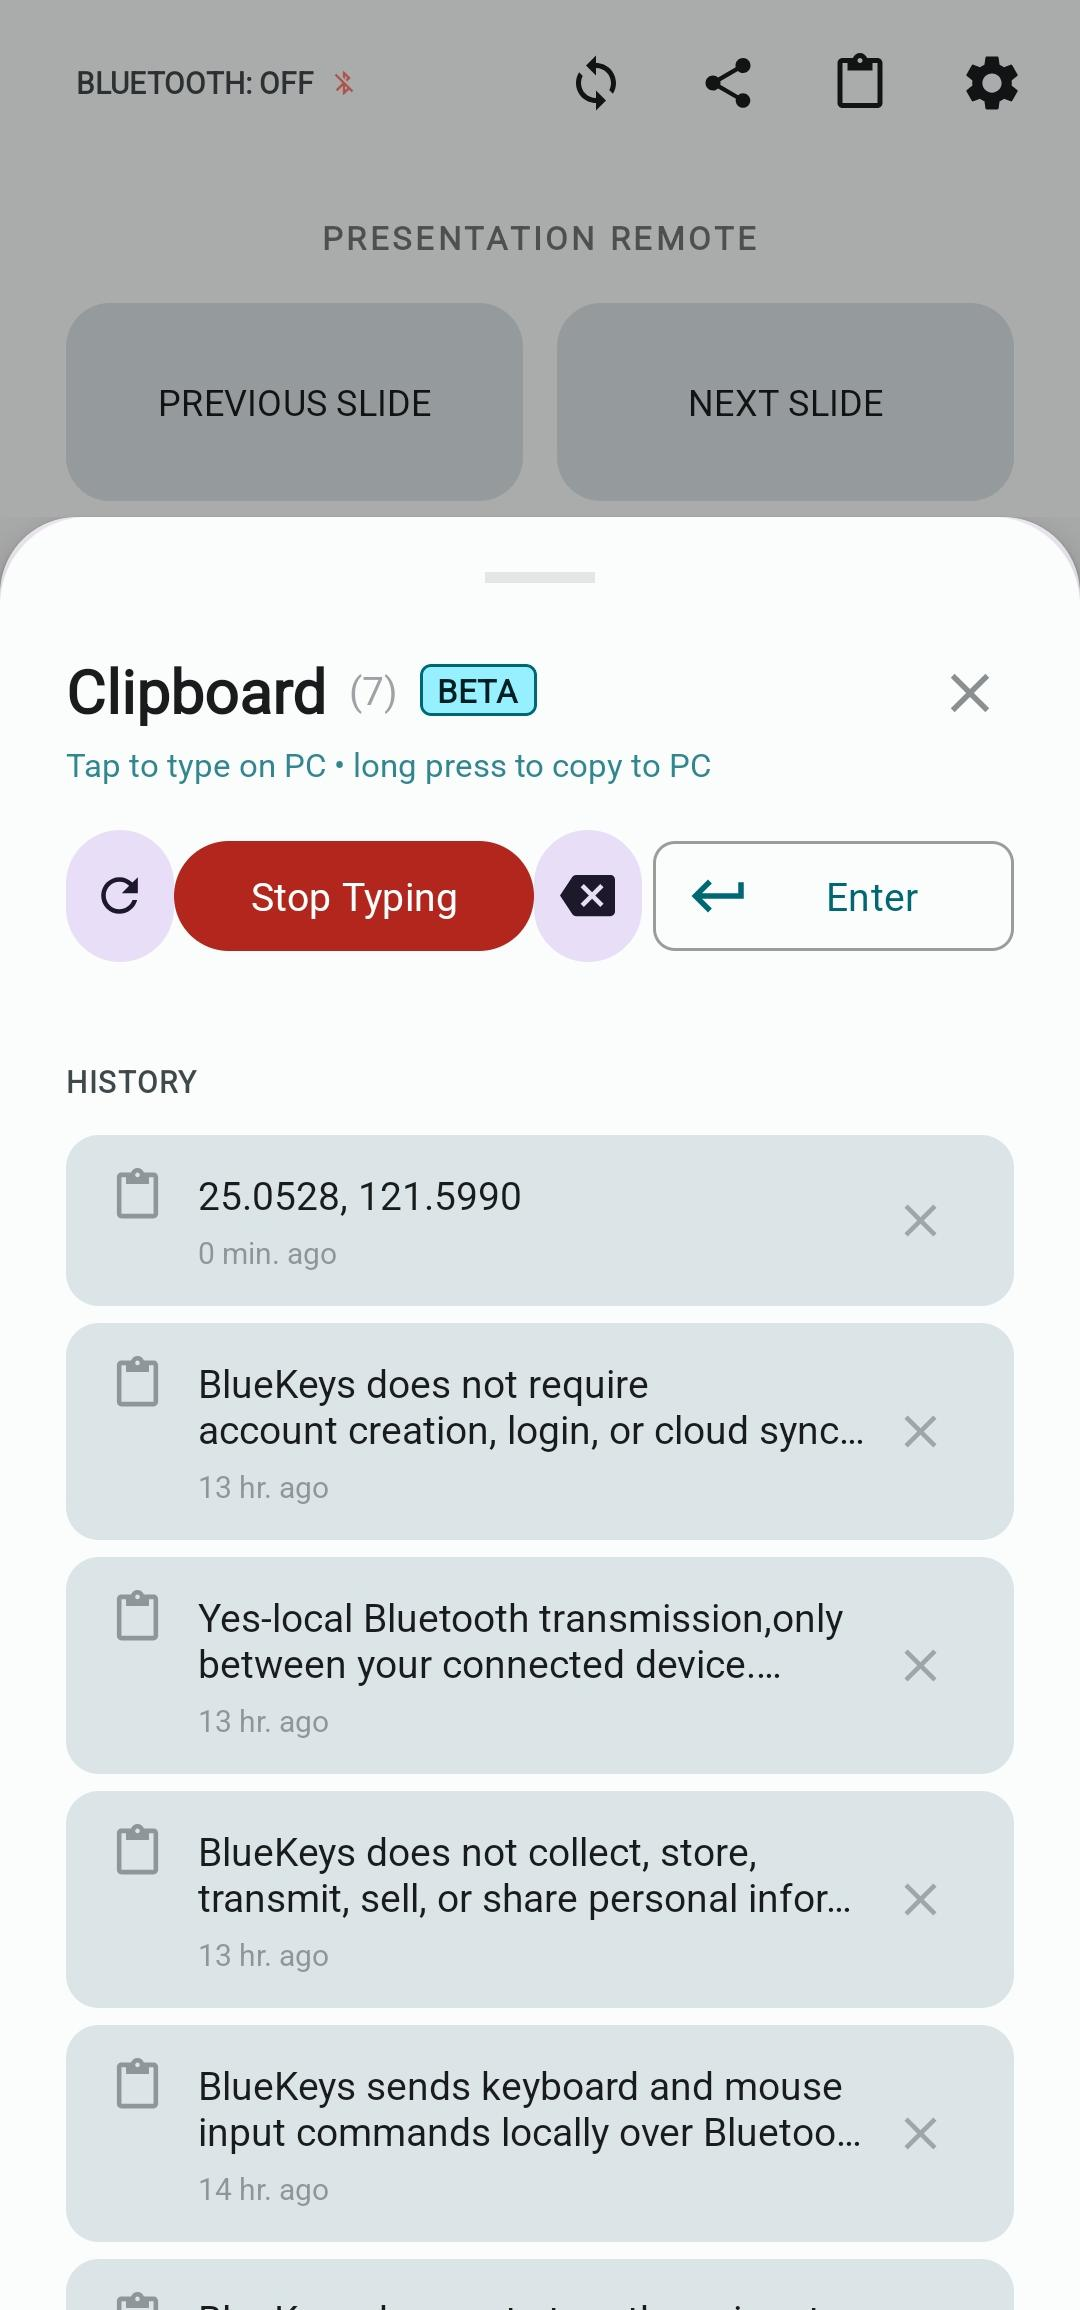
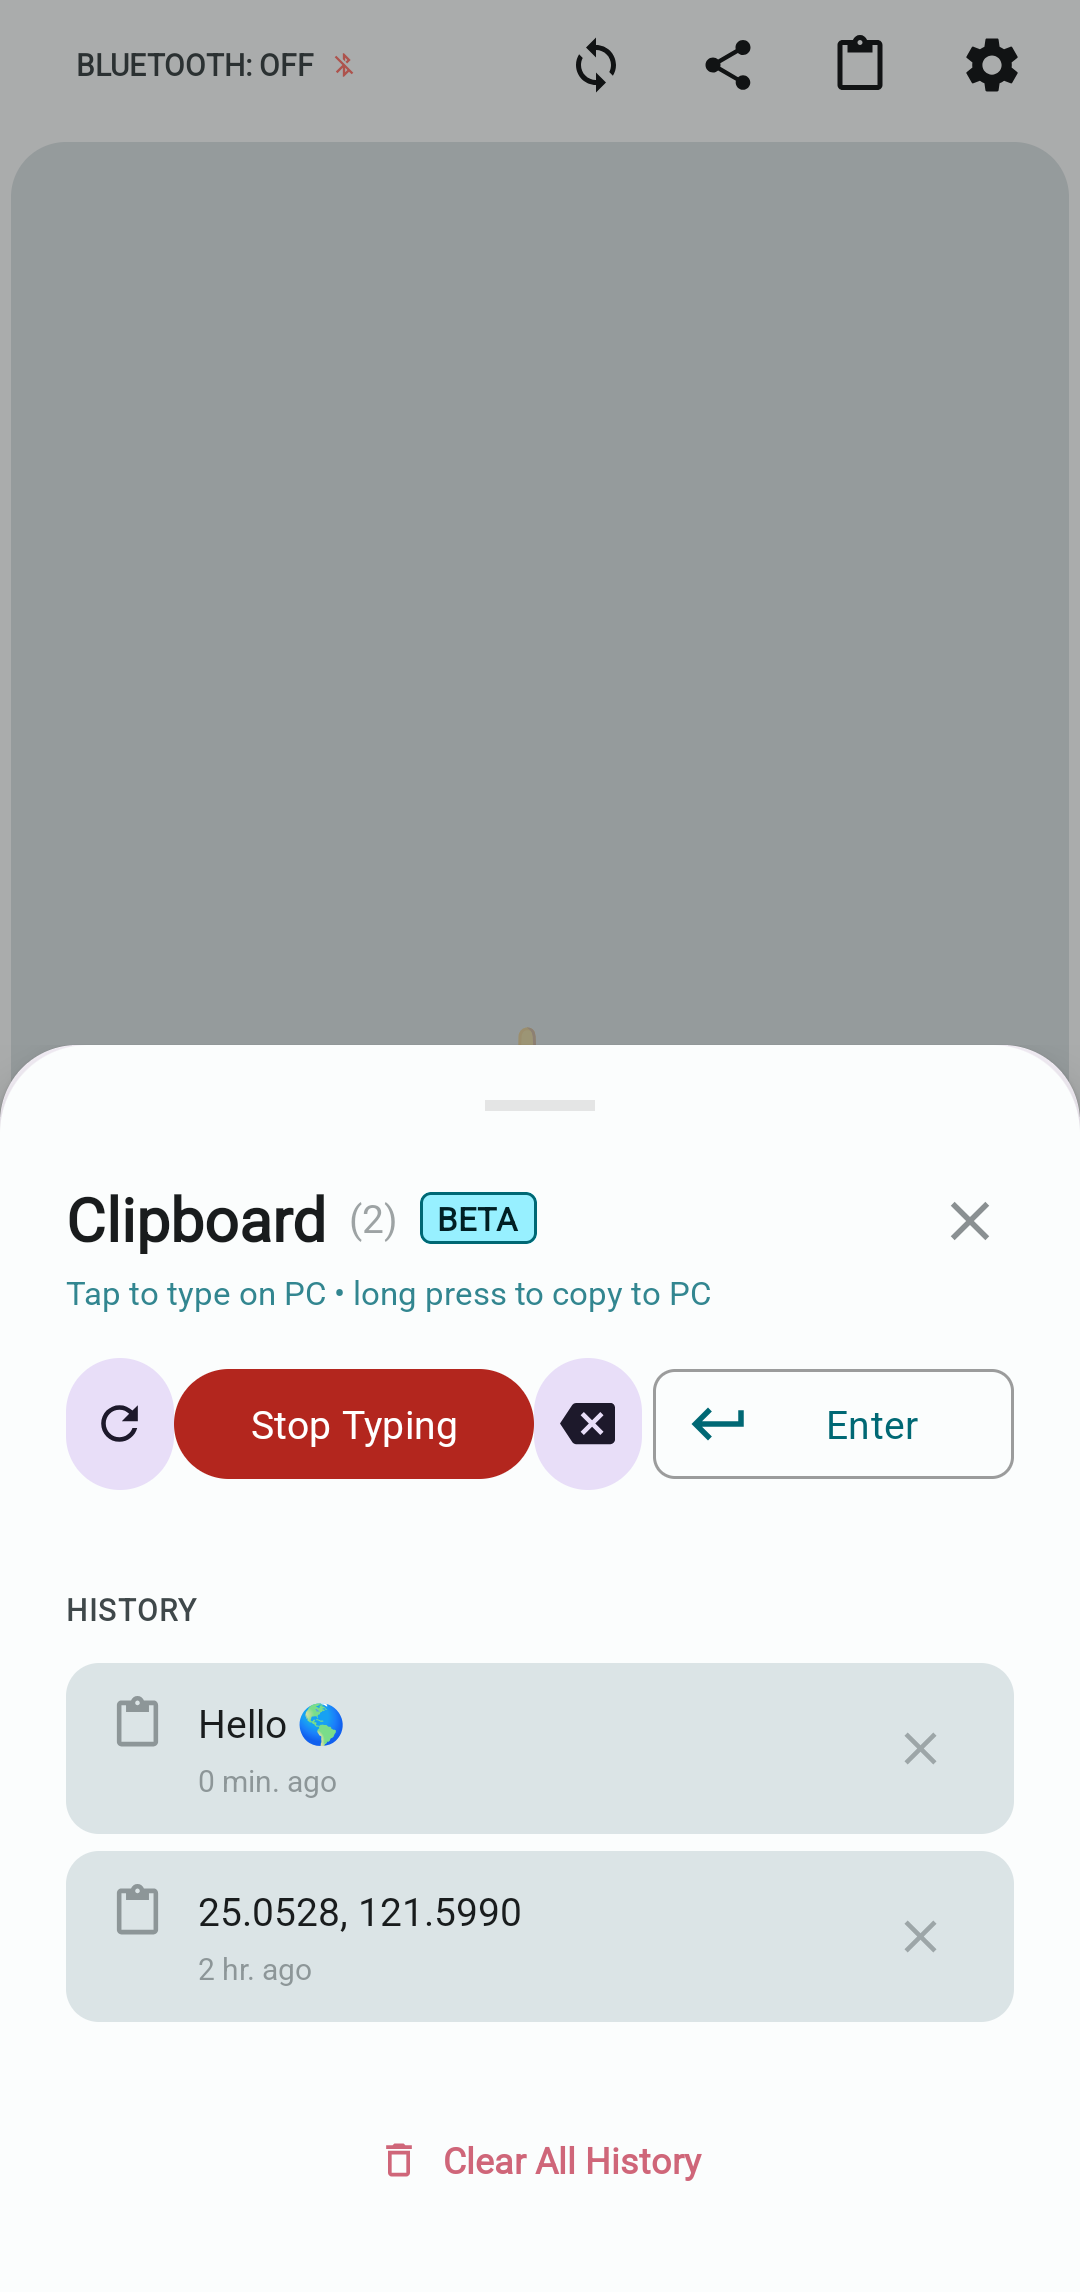
feat: update image gallery with new assets and refactor CSS animation delays for improved masonry layout responsiveness

diff --git a/index.html b/index.html
@@ -118,33 +118,33 @@
       animation: headerReveal 1.2s cubic-bezier(0.16, 1, 0.3, 1) forwards;
     }
 
-    .gallery-item:nth-child(1) .reveal-curtain,
-    .gallery-item:nth-child(1) .image-zoom {
+    .gallery-item:nth-child(6n+1) .reveal-curtain,
+    .gallery-item:nth-child(6n+1) .image-zoom {
       animation-delay: 0.15s;
     }
 
-    .gallery-item:nth-child(2) .reveal-curtain,
-    .gallery-item:nth-child(2) .image-zoom {
+    .gallery-item:nth-child(6n+2) .reveal-curtain,
+    .gallery-item:nth-child(6n+2) .image-zoom {
       animation-delay: 0.25s;
     }
 
-    .gallery-item:nth-child(3) .reveal-curtain,
-    .gallery-item:nth-child(3) .image-zoom {
+    .gallery-item:nth-child(6n+3) .reveal-curtain,
+    .gallery-item:nth-child(6n+3) .image-zoom {
       animation-delay: 0.35s;
     }
 
-    .gallery-item:nth-child(4) .reveal-curtain,
-    .gallery-item:nth-child(4) .image-zoom {
+    .gallery-item:nth-child(6n+4) .reveal-curtain,
+    .gallery-item:nth-child(6n+4) .image-zoom {
       animation-delay: 0.45s;
     }
 
-    .gallery-item:nth-child(5) .reveal-curtain,
-    .gallery-item:nth-child(5) .image-zoom {
+    .gallery-item:nth-child(6n+5) .reveal-curtain,
+    .gallery-item:nth-child(6n+5) .image-zoom {
       animation-delay: 0.55s;
     }
 
-    .gallery-item:nth-child(6) .reveal-curtain,
-    .gallery-item:nth-child(6) .image-zoom {
+    .gallery-item:nth-child(6n+6) .reveal-curtain,
+    .gallery-item:nth-child(6n+6) .image-zoom {
       animation-delay: 0.65s;
     }
 
@@ -828,22 +828,6 @@
             </div>
           </div>
 
-          <!-- Item 3: Precision Mouse (Landscape) -->
-          <div
-            class="relative overflow-hidden rounded-lg border border-black/5 bg-white/40 shadow-md break-inside-avoid mb-8 gallery-item transition-all duration-500 hover:shadow-xl hover:border-secondary/20"
-            data-purpose="gallery-tile" data-reveal="fade-up">
-            <div class="relative overflow-hidden">
-              <img alt="BlueKeys Bluetooth Mouse and Air Mouse interface" class="w-full h-auto image-zoom"
-                src="light/landscape/mouse.webp" width="2400" height="1080" decoding="async" loading="lazy" />
-              <!-- Staggered horizontal curtain wipe reveal -->
-              <div class="reveal-curtain"></div>
-              <!-- Minimalist Transparent Caption Overlaid (Bottom-Centered, Small Cute Grey Text) -->
-              <div class="absolute bottom-2 left-0 right-0 z-10 text-center">
-                <span class="caption-text">Precision Mouse</span>
-              </div>
-            </div>
-          </div>
-
           <!-- Item 4: Clipboard Sharing (Portrait) -->
           <div
             class="relative overflow-hidden rounded-lg border border-black/5 bg-white/40 shadow-md break-inside-avoid mb-8 gallery-item transition-all duration-500 hover:shadow-xl hover:border-secondary/20"
@@ -871,27 +855,217 @@
               <!-- Staggered horizontal curtain wipe reveal -->
               <div class="reveal-curtain"></div>
               <!-- Minimalist Transparent Caption Overlaid (Bottom-Centered, Small Cute Grey Text) -->
-              <div class="absolute bottom-2 left-0 right-0 z-10 text-center">
+              <div class="absolute bottom-3 left-0 right-0 z-10 text-center">
                 <span class="caption-text">Media Controls</span>
               </div>
             </div>
           </div>
-
-          <!-- Item 6: Multi-Device Share (Portrait) -->
+          <!-- Item: Bluetooth Share (Portrait) -->
           <div
             class="relative overflow-hidden rounded-lg border border-black/5 bg-white/40 shadow-md break-inside-avoid mb-8 gallery-item transition-all duration-500 hover:shadow-xl hover:border-secondary/20"
             data-purpose="gallery-tile" data-reveal="fade-up">
             <div class="relative overflow-hidden">
-              <img alt="BlueKeys local Bluetooth connection setup and share screen" class="w-full h-auto image-zoom"
-                src="light/share.jpg" width="600" height="1281" decoding="async" loading="lazy" />
-              <!-- Staggered horizontal curtain wipe reveal -->
+              <img alt="BlueKeys Bluetooth file and connection sharing" class="w-full h-auto image-zoom"
+                src="light/new/portrait%20ratio%20images/bluetooh%20share.jpg" width="1080" height="2400" decoding="async" loading="lazy" />
               <div class="reveal-curtain"></div>
-              <!-- Minimalist Transparent Caption Overlaid (Bottom-Centered, Small Cute Grey Text) -->
               <div class="absolute bottom-2 left-0 right-0 z-10 text-center">
-                <span class="caption-text">Multi-Device Share</span>
+                <span class="caption-text">Bluetooth Share</span>
               </div>
             </div>
           </div>
+
+          <!-- Item 11: Precision Mouse Settings (Landscape) -->
+          <div
+            class="relative overflow-hidden rounded-lg border border-black/5 bg-white/40 shadow-md break-inside-avoid mb-8 gallery-item transition-all duration-500 hover:shadow-xl hover:border-secondary/20"
+            data-purpose="gallery-tile" data-reveal="fade-up">
+            <div class="relative overflow-hidden">
+              <img alt="BlueKeys Bluetooth mouse control options" class="w-full h-auto image-zoom"
+                src="light/new/landscape%20ratio%20images/mouse.png" width="2400" height="1080" decoding="async" loading="lazy" />
+              <div class="reveal-curtain"></div>
+              <div class="absolute top-2 left-0 right-0 z-10 text-center">
+                <span class="caption-text">Precision Mouse</span>
+              </div>
+            </div>
+          </div>
+
+          <!-- Item 12: Clipboard Sharing (Portrait) -->
+          <div
+            class="relative overflow-hidden rounded-lg border border-black/5 bg-white/40 shadow-md break-inside-avoid mb-8 gallery-item transition-all duration-500 hover:shadow-xl hover:border-secondary/20"
+            data-purpose="gallery-tile" data-reveal="fade-up">
+            <div class="relative overflow-hidden">
+              <img alt="BlueKeys shared clipboard management screen" class="w-full h-auto image-zoom"
+                src="light/new/portrait%20ratio%20images/clipboard.jpg" width="1080" height="2292" decoding="async" loading="lazy" />
+              <div class="reveal-curtain"></div>
+              <div class="absolute bottom-2 left-0 right-0 z-10 text-center">
+                <span class="caption-text">Clipboard Sync</span>
+              </div>
+            </div>
+          </div>
+
+
+          <!-- Item 14: Rotary Dial Controls (Portrait) -->
+          <div
+            class="relative overflow-hidden rounded-lg border border-black/5 bg-white/40 shadow-md break-inside-avoid mb-8 gallery-item transition-all duration-500 hover:shadow-xl hover:border-secondary/20"
+            data-purpose="gallery-tile" data-reveal="fade-up">
+            <div class="relative overflow-hidden">
+              <img alt="BlueKeys interactive circular dial control" class="w-full h-auto image-zoom"
+                src="light/new/portrait%20ratio%20images/dial.png" width="1080" height="2310" decoding="async" loading="lazy" />
+              <div class="reveal-curtain"></div>
+              <div class="absolute top-67 left-0 right-0 z-10 text-center">
+                <span class="caption-text">Rotary Dial</span>
+              </div>
+            </div>
+          </div>
+
+          <!-- Item 15: Smart Word Suggestions (Landscape) -->
+          <div
+            class="relative overflow-hidden rounded-lg border border-black/5 bg-white/40 shadow-md break-inside-avoid mb-8 gallery-item transition-all duration-500 hover:shadow-xl hover:border-secondary/20"
+            data-purpose="gallery-tile" data-reveal="fade-up">
+            <div class="relative overflow-hidden">
+              <img alt="BlueKeys AI predictive word completion bar" class="w-full h-auto image-zoom"
+                src="light/new/landscape%20ratio%20images/suggestions.jpg" width="2400" height="1080" decoding="async" loading="lazy" />
+              <div class="reveal-curtain"></div>
+              <div class="absolute top-1 left-0 right-0 z-10 text-center">
+                <span class="caption-text">workspace keyboard</span>
+              </div>
+            </div>
+          </div>
+
+          <!-- Item 18: Keyboard Layouts (Portrait) -->
+          <div
+            class="relative overflow-hidden rounded-lg border border-black/5 bg-white/40 shadow-md break-inside-avoid mb-8 gallery-item transition-all duration-500 hover:shadow-xl hover:border-secondary/20"
+            data-purpose="gallery-tile" data-reveal="fade-up">
+            <div class="relative overflow-hidden">
+              <img alt="BlueKeys portrait keyboard customization" class="w-full h-auto image-zoom"
+                src="light/new/portrait%20ratio%20images/keyboard.jpg" width="1080" height="2310" decoding="async" loading="lazy" />
+              <div class="reveal-curtain"></div>
+            </div>
+          </div>
+
+          <!-- Item 19: Trackpad Gestures Workspace (Landscape) -->
+          <div
+            class="relative overflow-hidden rounded-lg border border-black/5 bg-white/40 shadow-md break-inside-avoid mb-8 gallery-item transition-all duration-500 hover:shadow-xl hover:border-secondary/20"
+            data-purpose="gallery-tile" data-reveal="fade-up">
+            <div class="relative overflow-hidden">
+              <img alt="BlueKeys multi-touch trackpad configuration" class="w-full h-auto image-zoom"
+                src="light/new/landscape%20ratio%20images/trackpad.jpg" width="2400" height="1080" decoding="async" loading="lazy" />
+              <div class="reveal-curtain"></div>
+              <div class="absolute top-2 left-0 right-0 z-10 text-center">
+                <span class="caption-text">trackpad gestures and scroll</span>
+              </div>
+            </div>
+          </div>
+
+          <!-- Item 22: Media Remote Keys (Portrait) -->
+          <div
+            class="relative overflow-hidden rounded-lg border border-black/5 bg-white/40 shadow-md break-inside-avoid mb-8 gallery-item transition-all duration-500 hover:shadow-xl hover:border-secondary/20"
+            data-purpose="gallery-tile" data-reveal="fade-up">
+            <div class="relative overflow-hidden">
+              <img alt="BlueKeys pocket media buttons controller" class="w-full h-auto image-zoom"
+                src="light/new/portrait%20ratio%20images/media.jpg" width="1080" height="2310" decoding="async" loading="lazy" />
+              <div class="reveal-curtain"></div>
+              <div class="absolute top-10 left-0 right-0 z-10 text-center">
+                <span class="caption-text">Media Playback</span>
+              </div>
+            </div>
+          </div>
+
+          <!-- Item 23: Text Predictions & Vocabulary (Landscape) -->
+          <div
+            class="relative overflow-hidden rounded-lg border border-black/5 bg-white/40 shadow-md break-inside-avoid mb-8 gallery-item transition-all duration-500 hover:shadow-xl hover:border-secondary/20"
+            data-purpose="gallery-tile" data-reveal="fade-up">
+            <div class="relative overflow-hidden">
+              <img alt="BlueKeys intelligent vocabulary matching list" class="w-full h-auto image-zoom"
+                src="light/new/landscape%20ratio%20images/word.png" width="2400" height="1080" decoding="async" loading="lazy" />
+              <div class="reveal-curtain"></div>
+ 
+            </div>
+          </div>
+
+          <!-- Item 24: Global App Preferences (Portrait) -->
+          <div
+            class="relative overflow-hidden rounded-lg border border-black/5 bg-white/40 shadow-md break-inside-avoid mb-8 gallery-item transition-all duration-500 hover:shadow-xl hover:border-secondary/20"
+            data-purpose="gallery-tile" data-reveal="fade-up">
+            <div class="relative overflow-hidden">
+              <img alt="BlueKeys advanced settings dashboard" class="w-full h-auto image-zoom"
+                src="light/new/portrait%20ratio%20images/settings.jpg" width="1080" height="2400" decoding="async" loading="lazy" />
+              <div class="reveal-curtain"></div>
+              <div class="absolute bottom-2 left-0 right-0 z-10 text-center">
+                <span class="caption-text">Global Settings</span>
+              </div>
+            </div>
+          </div>
+
+          <!-- Item 25: First Setup Guide (Portrait) -->
+          <div
+            class="relative overflow-hidden rounded-lg border border-black/5 bg-white/40 shadow-md break-inside-avoid mb-8 gallery-item transition-all duration-500 hover:shadow-xl hover:border-secondary/20"
+            data-purpose="gallery-tile" data-reveal="fade-up">
+            <div class="relative overflow-hidden">
+              <img alt="BlueKeys simple onboarding process setup screens" class="w-full h-auto image-zoom"
+                src="light/new/portrait%20ratio%20images/setup.png" width="1080" height="2310" decoding="async" loading="lazy" />
+              <div class="reveal-curtain"></div>
+              <div class="absolute bottom-2 left-0 right-0 z-10 text-center">
+                <span class="caption-text">Onboarding Setup</span>
+              </div>
+            </div>
+          </div>
+
+          <!-- Item 26: File Transfer Setup (Portrait) -->
+          <div
+            class="relative overflow-hidden rounded-lg border border-black/5 bg-white/40 shadow-md break-inside-avoid mb-8 gallery-item transition-all duration-500 hover:shadow-xl hover:border-secondary/20"
+            data-purpose="gallery-tile" data-reveal="fade-up">
+            <div class="relative overflow-hidden">
+              <img alt="BlueKeys mobile fast sharing settings screen" class="w-full h-auto image-zoom"
+                src="light/new/portrait%20ratio%20images/share.jpg" width="1080" height="2310" decoding="async" loading="lazy" />
+              <div class="reveal-curtain"></div>
+              <div class="absolute bottom-2 left-0 right-0 z-10 text-center">
+                <span class="caption-text">File Sharing</span>
+              </div>
+            </div>
+          </div>
+
+          <!-- Item 27: Touch Sensitive Trackpad (Portrait) -->
+          <div
+            class="relative overflow-hidden rounded-lg border border-black/5 bg-white/40 shadow-md break-inside-avoid mb-8 gallery-item transition-all duration-500 hover:shadow-xl hover:border-secondary/20"
+            data-purpose="gallery-tile" data-reveal="fade-up">
+            <div class="relative overflow-hidden">
+              <img alt="BlueKeys gesture touch active area layout" class="w-full h-auto image-zoom"
+                src="light/new/portrait%20ratio%20images/trackpad.jpg" width="1080" height="2310" decoding="async" loading="lazy" />
+              <div class="reveal-curtain"></div>
+              <div class="absolute bottom-2 left-0 right-0 z-10 text-center">
+                <span class="caption-text">Trackpad Control</span>
+              </div>
+            </div>
+          </div>
+
+          <!-- Item 28: Connection Handshake Protocol (Portrait) -->
+          <div
+            class="relative overflow-hidden rounded-lg border border-black/5 bg-white/40 shadow-md break-inside-avoid mb-8 gallery-item transition-all duration-500 hover:shadow-xl hover:border-secondary/20"
+            data-purpose="gallery-tile" data-reveal="fade-up">
+            <div class="relative overflow-hidden">
+              <img alt="BlueKeys real-time synchronization link interface" class="w-full h-auto image-zoom"
+                src="light/new/portrait%20ratio%20images/transfer.jpg" width="1080" height="2310" decoding="async" loading="lazy" />
+              <div class="reveal-curtain"></div>
+              <div class="absolute bottom-2 left-0 right-0 z-10 text-center">
+                <span class="caption-text">Device Sync</span>
+              </div>
+            </div>
+          </div>
+
+                    <!-- Item 16: User Feedback Submission (Portrait) -->
+          <div
+            class="relative overflow-hidden rounded-lg border border-black/5 bg-white/40 shadow-md break-inside-avoid mb-8 gallery-item transition-all duration-500 hover:shadow-xl hover:border-secondary/20"
+            data-purpose="gallery-tile" data-reveal="fade-up">
+            <div class="relative overflow-hidden">
+              <img alt="BlueKeys feedback collection layout" class="w-full h-auto image-zoom"
+                src="light/new/portrait%20ratio%20images/feedback.jpg" width="1080" height="2400" decoding="async" loading="lazy" />
+              <div class="reveal-curtain"></div>
+              <div class="absolute bottom-2 left-0 right-0 z-10 text-center">
+                <span class="caption-text">Feedback Channel</span>
+              </div>
+            </div>
+          </div>
+
 
         </section>
       </main>
@@ -1066,8 +1240,8 @@
       <p class="text-[10px] sm:text-xs font-bold tracking-[0.2em] uppercase text-primary/35">© 2026 BlueKeys. Engineered
         for Nothing.</p>
       <p class="mt-2"><a href="privacy.html"
-          class="text-[10px] sm:text-xs font-semibold tracking-[0.15em] uppercase text-neutral-800/40 hover:text-neutral-800 transition-colors">Privacy
-          Policy</a></p>
+          class="text-[10px] sm:text-xs font-semibold tracking-[0.15em] uppercase text-neutral-800/40 hover:text-neutral-800 transition-colors"><u>Privacy Policy</u>
+        </a></p>
     </footer>
 
   </div>

diff --git a/js/shader-upgrade.js b/js/shader-upgrade.js
@@ -29,12 +29,12 @@ function initHighResUpgrade(img) {
     }
     if (w <= 1024) {
       // Tablet range
-      if (aspect > 1.2) return 'shaders/desktop 19:6/landsacpe screen .jpeg'; // Landscape tablet
+      if (aspect > 1.2) return 'shaders/desktop 19:6/ screen .jpeg'; // Landscape tablet
       return 'shaders/tablets/tablets.png'; // Portrait tablet
     }
     
     // Desktop range (> 1024)
-    return 'shaders/desktop 19:6/landsacpe screen .jpeg';
+    return 'shaders/tablets/tablets.png';
   }
 
   var hiResSrc = getShaderSrc();